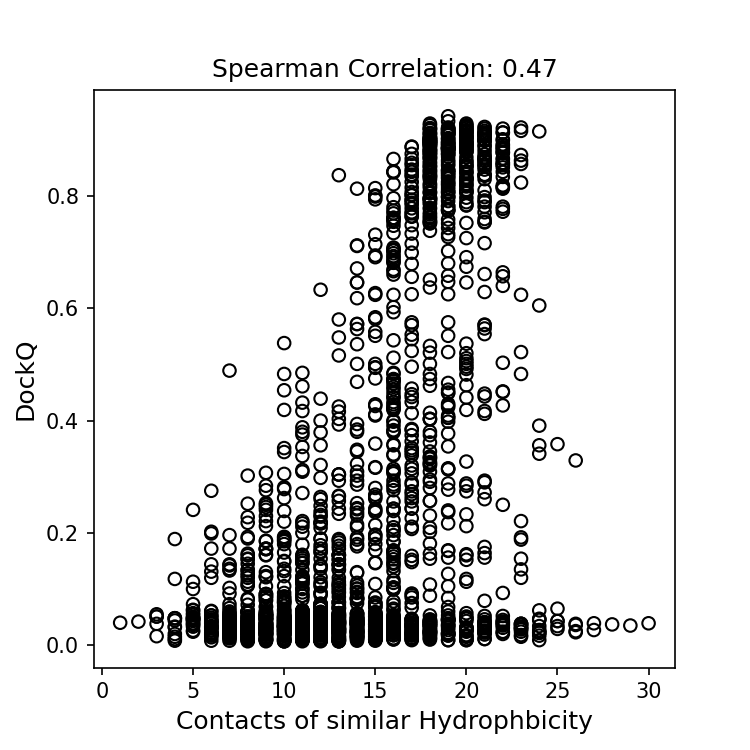
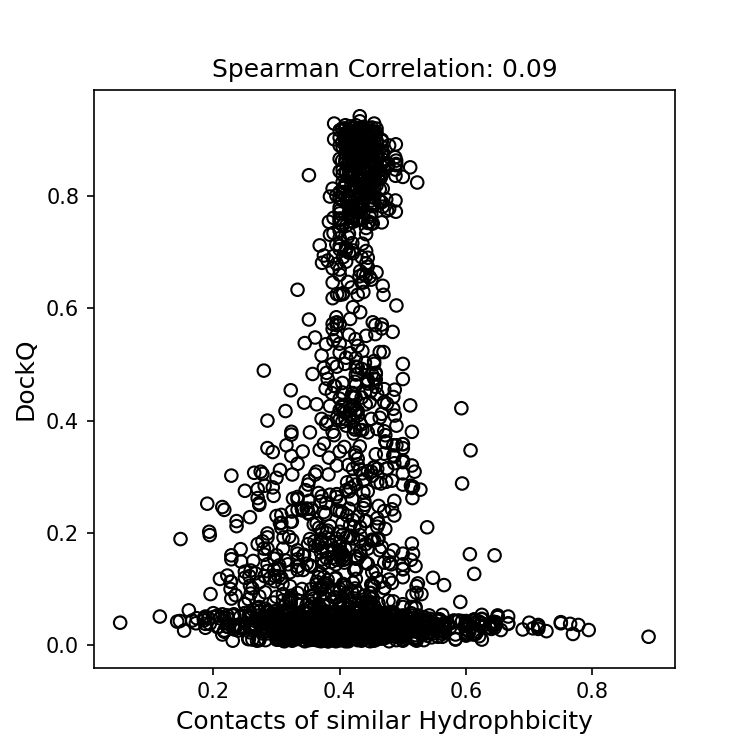
Modified hydro

diff --git a/pdb_reader.py b/pdb_reader.py
@@ -7,6 +7,7 @@ import numpy as np
 from multiprocessing import Pool, cpu_count
 from collections import defaultdict
 import pandas as pd
+import freesasa
 
 class Protein:
     def __init__(self, pdb_file_path):
@@ -422,9 +423,27 @@ class Protein:
                 res_dict[res_name_B[i]] += 1
         
         return res_dict
+    
+    def get_interface_sa(self):
+        def findUnboundSASA(pdb_path: str):
+            structures = freesasa.structureArray(pdb_path, {'separate-chains': True})
+            areas = []
+            for structure in structures:
+                result = freesasa.calc(structure)
+                areas.append(result.totalArea())
+            return areas
+
+        def findBoundSASA(pdb_path: str):
+            structure = freesasa.Structure(pdb_path)
+            result = freesasa.calc(structure)
+            return result.totalArea()
+
+        return sum(findUnboundSASA(self.pdb_file_path)) - findBoundSASA(self.pdb_file_path)
+
 
 if __name__ == "__main__":
     protein = Protein('targets/1acb_complex_H.pdb')
+    print(protein.get_interface_sa())
     #print(protein.get_chain_ids())
     #print(protein.get_atom_coords('E'))
     #print(protein.get_interface_residues())

diff --git a/hydrophobicity/hydro_vs_dockQ.py b/hydrophobicity/hydro_vs_dockQ.py
@@ -16,7 +16,7 @@ def main(folder_path):
     for file in os.listdir(folder_path): 
         file_path = os.path.join(folder_path, file)
         df = pd.read_csv(file_path)
-        pdb_id = file[:4]
+        pdb_id = file[6:9]
         dockq_scores = []
         hydro_scores = []
         print(pdb_id)
@@ -24,7 +24,7 @@ def main(folder_path):
             if row["pdb_id"] == pdb_id:
                 dockq_scores.append(row['DockQ'])
         for index, row in df.iterrows():
-            hydro_scores.append(row['hydrophobicity_contacts'])
+            hydro_scores.append(row['normalized_hydrophobicity_contacts'])
         
         print(dockq_scores)
         spearman_corr, spearman_p = spearmanr(dockq_scores, hydro_scores)

diff --git a/hydrophobicity/hydro_capri.py b/hydrophobicity/hydro_capri.py
@@ -110,8 +110,8 @@ def get_hydro_hits(file):
 
     total_contacts = len(resA)
     normalized_hits = hits / total_contacts if total_contacts > 0 else 0
-
-    return hits
+    
+    return hits / protein.get_interface_sa()
 
 
 def process_pdb_folder(full_folder_path, pdb_id):
@@ -134,7 +134,7 @@ def process_pdb_folder(full_folder_path, pdb_id):
     with open(output_csv, mode='w', newline='') as file:
 
         writer = csv.writer(file)
-        writer.writerow(['pdb_file', 'normalized_hydrophobicity_contacts'])
+        writer.writerow(['pdb_file', 'rsm_hydrophobicity_contacts'])
         for result in results:
             writer.writerow(result)
 
